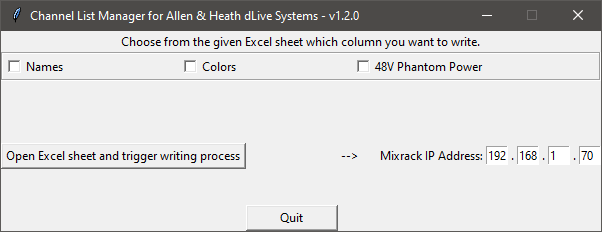
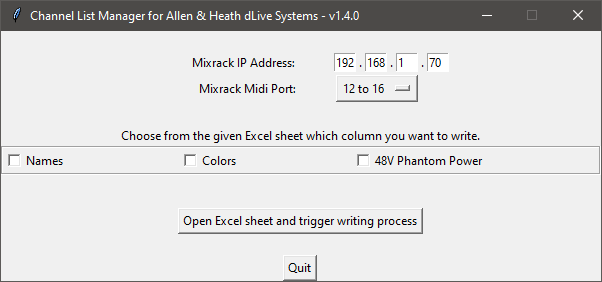
doc updated pyinstaller command added alignment of UI elements gui picture updated

diff --git a/main.py b/main.py
@@ -2,7 +2,7 @@
 import re
 import time
 from tkinter import filedialog, Button, Tk, Checkbutton, IntVar, W, Frame, LEFT, YES, TOP, X, GROOVE, RIGHT, Label, \
-    Entry, BOTTOM, StringVar, OptionMenu, CENTER
+    Entry, BOTTOM, StringVar, OptionMenu
 
 import mido
 import pandas as pd
@@ -218,9 +218,9 @@ root = Tk()
 config_frame = Frame(root)
 ip_frame = Frame(config_frame)
 Label(config_frame, text="       ").grid(row=0, column=0)
-ip_frame.grid(row=1, column=0)
+ip_frame.grid(row=1, column=0, sticky="W")
 midi_port_frame = Frame(config_frame)
-midi_port_frame.grid(row=2, column=0)
+midi_port_frame.grid(row=2, column=0, sticky="W")
 config_frame.pack(side=TOP)
 
 columns = Checkbar(root, ['Names', 'Colors', '48V Phantom Power'])
@@ -247,7 +247,7 @@ if __name__ == '__main__':
 
     columns.pack(side=TOP, fill=X)
     columns.config(relief=GROOVE, bd=2)
-    Label(ip_frame, text="Mixrack IP Address:", width=30).pack(side=LEFT)
+    Label(ip_frame, text="Mixrack IP Address:", width=25).pack(side=LEFT)
 
     ip_byte0.grid(row=0, column=0)
     Label(ip_field, text=".").grid(row=0, column=1)
@@ -260,7 +260,7 @@ if __name__ == '__main__':
 
     var_midi_port.set("12 to 16")  # default value
 
-    Label(midi_port_frame, text="Mixrack Midi Port:", width=30).pack(side=LEFT)
+    Label(midi_port_frame, text="   Mixrack Midi Port:", width=25).pack(side=LEFT)
 
     dropdown_midi_port = OptionMenu(midi_port_frame, var_midi_port, "1 to 5", "2 to 6", "3 to 7", "4 to 8", "5 to 9",
                                     "6 to 10", "7 to 11",

diff --git a/README.md b/README.md
@@ -26,14 +26,13 @@ The following colors are allowed:
 blue, red, light blue, purple, green, yellow, black, white
 
 ## Settings on the dlive console
-The Midi Channel setting on dlive under `Utils/Shows -> Control -> Midi` has to be: `12 to 16`, which is default.
+The Midi Channel setting on dlive under `Utils/Shows -> Control -> Midi` should be be set to : `12 to 16`, which is default.
 
-If you want to change the preconfigured Midi port, you can set the field: `midi_channel_number` 
-in the file: dliveConstants.py according to your dlive settings. 
+If you want to change the preconfigured Midi port, you can change it in the Graphical User Interface according to your dlive settings. 
 
 ## Default ip and port
 The default dlive mixrack ip address is: 192.168.1.70. This IP-Address is preconfigured in the scripts. If you want to 
-change it, you can edit the field `ip` in the file: dliveConstants.py or during runtime within the GUI.  
+change it, you can edit the field `ip` in the file: dliveConstants.py or during runtime within the Graphical User Interface.  
 
 Please make sure that your ethernet or Wi-Fi interface has an ip address in the same subnet. e.g. 192.168.1.10
  
@@ -53,11 +52,17 @@ Prerequisites:
 
 `python3 main.py`
 
-Afterwards the following GUI should appear. 
+Afterwards the following window appears. 
 
 ![Gui](gui.png)
 
-Select the columns you want to write, then click the button "Open Excel Sheet and Trigger Writing Process" to select your custom Excel sheet. Afterwards the selected action(s) start automatically.
+1. Check the Mixrack IP and Midi Port.
+
+2. Select the columns you want to write, 
+
+3. then click the button "Open Excel Sheet and Trigger Writing Process" to select your custom Excel sheet. Afterwards the selected action(s) start automatically.
+
+4. If something goes wrong, please check the console.
 
 If you find any issues, please let me know.
 
